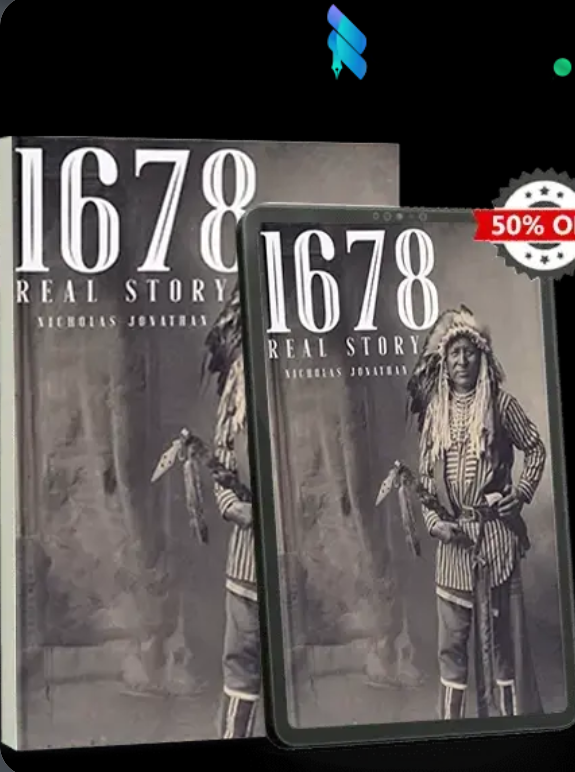
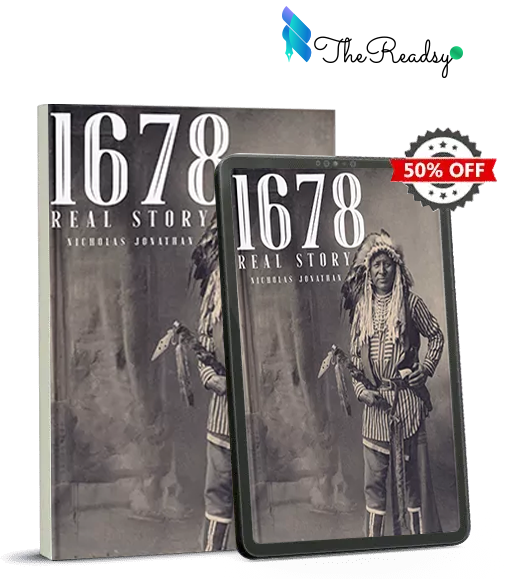
Update Code

diff --git a/components/QuoteModal.tsx b/components/QuoteModal.tsx
@@ -61,7 +61,7 @@ export function QuoteModal() {
             animate={{ opacity: 1, y: 0, scale: 1 }}
             exit={{ opacity: 0, y: 16, scale: 0.97 }}
             transition={{ duration: 0.35, ease: [0.22, 1, 0.36, 1] }}
-            className="relative z-10 grid w-full max-w-[920px] overflow-hidden rounded-3xl bg-white shadow-[0_40px_120px_-40px_rgba(20,29,41,0.75)] outline-none md:grid-cols-2 md:items-stretch"
+            className="relative z-10 grid w-full max-w-[960px] overflow-hidden rounded-3xl bg-white shadow-[0_40px_120px_-40px_rgba(20,29,41,0.75)] outline-none md:grid-cols-[1.05fr_0.95fr] md:items-stretch"
           >
             <button
               type="button"
@@ -72,16 +72,18 @@ export function QuoteModal() {
               <X className="h-4 w-4" strokeWidth={1.75} />
             </button>
 
-            {/* Show original promo image as-is — no crop/zoom */}
-            <div className="relative hidden min-h-[34rem] border-r border-navy/10 bg-white md:block">
-              <Image
-                src="/images/modal-image/Modal-image.png"
-                alt="Readsy 50 percent off publishing offer"
-                fill
-                className="object-contain object-center"
-                sizes="(max-width: 920px) 100vw, 460px"
-                priority
-              />
+            {/* Original promo art — panel bg white; image file unchanged */}
+            <div className="relative hidden min-h-[34rem] border-r border-navy/15 !bg-white md:block">
+              <div className="absolute inset-3">
+                <Image
+                  src="/images/modal-image/Modal-image.png"
+                  alt="Readsy 50 percent off publishing offer"
+                  fill
+                  className="object-contain object-center"
+                  sizes="(max-width: 960px) 100vw, 500px"
+                  priority
+                />
+              </div>
             </div>
 
             <div className="relative flex flex-col justify-center px-5 py-7 sm:px-8 sm:py-9">

diff --git a/lib/content.ts b/lib/content.ts
@@ -149,7 +149,7 @@ export const BOOK_COVERS = [
   {
     slug: "the-lamb",
     title: "The Lamb",
-    front: "/images/book-covers-front/the-lamb.jpg",
+    front: "/images/book-covers-front/the-lamb1.jpg",
     back: "/images/book-covers-back/the-lamb.jpg",
   },
 ] as const;
